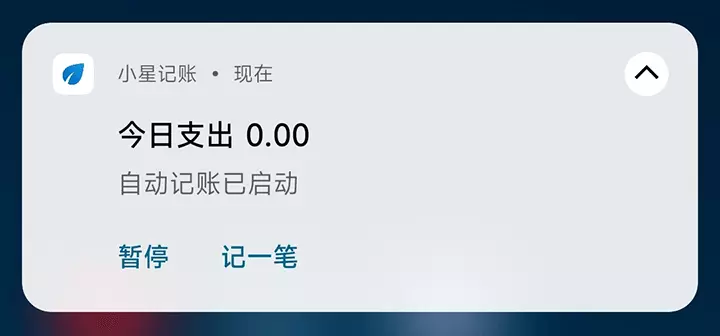
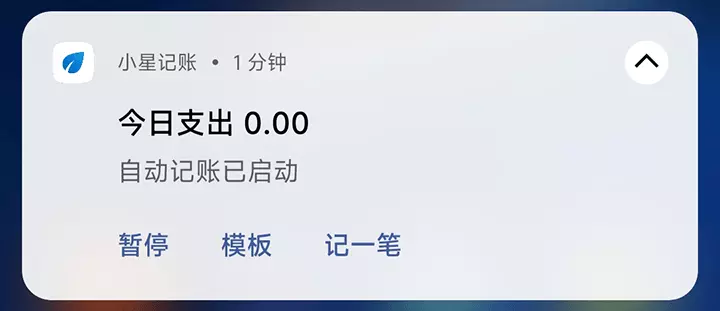
no message

diff --git a/doc/auto.html b/doc/auto.html
@@ -593,11 +593,11 @@ header, .context-menu, .megamenu-content, footer{
 </style><title>自动记账使用手册</title>
 </head>
 <body class='typora-export os-windows'><div class='typora-export-content'>
-<div id='write'  class=''><h3 id='1-概述'><span>1 概述</span></h3><p><span>欢迎使用小星记账提供的自动记账服务。自动记账实现了在 </span><strong><span>支付宝、微信、云闪付、美团、京东、抖音</span></strong><span> 等应用支付成功后，或进入账单详情页时，自动识别界面上的账单信息，方便您一键记账，省去手动录入的麻烦和遗忘记账的烦恼~ </span></p><p><span>请您在使用前完整地阅读本文档，了解具体的使用方法和常见问题，帮助您快速上手。</span></p><p>&nbsp;</p><p><span>目前支持的场景如下：</span></p><p><strong><span>【支付宝】</span></strong></p><p><strong><span>扫码支付、付款码支付、转账、提现、红包、账单详情、余额明细、余额宝明细、余利宝明细</span></strong></p><p><span>账单详情入口：我的-账单-点击某一账单</span></p><p><span>余额明细入口：我的-余额-右上角”…“-余额变动明细-点击某一明细</span></p><p><span>余额宝明细入口：我的-余额宝-右上角”…“-资金明细-点击某一明细</span></p><p><span>余利宝明细入口：我的-余利宝-账单-点击某一明细</span></p><p><span>温馨提示：天猫、淘宝、闲鱼、饿了么、公交扫码、高德打车等阿里系产品在支付成功后，如果没有弹出记账面板（比如是免密支付或没有支付宝的支付成功界面），可以点击系统通知栏内的【支付宝交易提醒通知】进行识别；或主动打开支付宝账单详情进行识别。</span></p><p>&nbsp;</p><p><strong><span>【微信】</span></strong></p><p><strong><span>扫码支付、付款码支付、转账、提现、红包、账单详情、零钱明细、零钱通明细、商家收款详情</span></strong></p><p><span>账单详情入口：我-服务-钱包-右上角账单按钮-点击某一账单</span></p><p><span>零钱明细入口：我-服务-钱包-零钱-零钱明细-点击某一明细</span></p><p><span>零钱通明细入口：微信-我-服务-钱包-零钱通-右上角”…“-零钱通明细-点击某一明细</span></p><p><span>温馨提示1：微信红包/群收款由于支付后是直接回到聊天窗口，没有支付成功界面，因此需要您主动点开红包/群收款进行识别；</span></p><p><span>温馨提示2：微信二维码收款不支持直接识别，可以在微信账单中打开对应的「账单详情」进行识别。</span></p><p>&nbsp;</p><p><strong><span>【云闪付】</span></strong></p><p><strong><span>扫码支付、付款码支付、账单详情、交易详情</span></strong></p><p><span>账单详情入口：我的-账单-点击某一账单</span></p><p><span>交易详情入口：1. 消息-支付助手-查看；2. 首页-卡管理-点击具体银行卡-交易记录-点击某一记录-点击「更多」</span></p><p><span>温馨提示：当银行卡金额发生变动后，一般云闪付都会发出【动账提醒】通知，点进通知即可完成识别。</span></p><p>&nbsp;</p><p><strong><span>【美团、美团外卖】</span></strong></p><p><strong><span>美团支付、账单详情、余额明细</span></strong></p><p><span>账单详情入口：我的-我的钱包（进入钱包）-我的账单-点击某一账单</span></p><p><span>余额明细入口：我的-我的钱包-点击余额-余额明细-点击某一明细</span></p><p>&nbsp;</p><p><strong><span>【京东、京东金融】</span></strong></p><p><strong><span>京东支付、账单详情</span></strong></p><p><span>京东账单入口：我的-我的钱包-右上角账单图标-点击某一账单</span></p><p><span>京东金融账单入口：我的-我的账单-点击某一账单</span></p><p>&nbsp;</p><p><strong><span>【抖音、抖音极速版、抖音火山版】</span></strong></p><p><strong><span>抖音商城支付、账单详情</span></strong></p><p><span>账单详情入口：我-右上角菜单按钮-我的钱包-账单-点击某一账单</span></p><p>&nbsp;</p><p><strong><span>【银行短信】</span></strong></p><p><span>收到短信自动识别+手动添加短信内容进行识别；具体使用方式请查看下方 </span><strong><span>2.5 使用短信识别</span></strong></p><p>&nbsp;</p><p><strong><span>【实现原理&amp;隐私安全】</span></strong></p><p><span>自动记账实现原理：基于Android系统的无障碍服务，在用户主动打开特定应用的特定界面时，自动调用系统接口获取一次界面数据。数据经过本地算法识别整理后，通过悬浮窗展示在用户面前，方便用户一键记账。</span></p><p><span>短信识别实现原理：系统在收到新短信时，会向所有应用发送广播通知，应用可以进行注册监听。当小星注册的监听器接收到新短信时，会自动对短信内容进行一次识别，如果符合识别规则，将会整理数据并通知用户，方便用户一键记账。</span></p><p><span>隐私安全保障：自动记账（含短信）的识别算法均为本地离线算法，获取的数据和对数据的处理仅在当前手机内部完成，数据不会上传网络或做其他形式的存储，可放心使用。</span></p><p>&nbsp;</p><h3 id='2-开始使用'><span>2 开始使用</span></h3><h4 id='21-创建账户'><span>2.1 创建账户</span></h4><p><span>请先在应用内将自己名下的所有账户创建好，比如花呗、银行储蓄卡、信用卡等等，方便自动记账的时候识别与选择。</span></p><p>&nbsp;</p><h4 id='22-开启权限'><span>2.2 开启权限</span></h4><p><span>请根据应用提示正确开启小星记账的悬浮窗权限和无障碍服务开关（无障碍界面-已安装/已下载的服务-小星记账）。</span></p><p><span>温馨提示：无障碍设置里仅需开启无障碍服务开关，无需打开【无障碍快捷方式】</span></p><p><span>如果系统权限中含有 </span><strong><span>是否允许应用【后台弹出界面】</span></strong><span>，请设置开启。</span></p><p><span>如果需要进行短信识别，请主动在系统权限中开启</span><strong><span>读取短信权限</span></strong><span>和</span><strong><span>通知类短信读取权限</span></strong><span>。IQOO和VIVO设备还需要进入信息-右上角圆点-设置-隐私保护-关闭财务信息保护。</span></p><p><span>为了防止退出应用后，无障碍服务被系统自动关闭，请将小星记账（不同机型的操作方式请查看本文档最下方）：</span>
+<div id='write'  class=''><h3 id='1-概述'><span>1 概述</span></h3><p><span>欢迎使用小星记账提供的自动记账服务。自动记账实现了在 </span><strong><span>支付宝、微信、云闪付、美团、京东、抖音、数字人民币</span></strong><span> 等应用支付成功后，或进入账单详情页时，自动识别界面上的账单信息，方便您一键记账，省去手动录入的麻烦和遗忘记账的烦恼~ </span></p><p><span>请您在使用前完整地阅读本文档，了解具体的使用方法和常见问题，帮助您快速上手。</span></p><p>&nbsp;</p><p><span>目前支持的场景如下：</span></p><p><strong><span>【支付宝】</span></strong></p><p><strong><span>扫码支付、付款码支付、转账、提现、红包、账单详情、余额明细、余额宝明细、余利宝明细</span></strong></p><p><span>账单详情入口：我的-账单-点击某一账单</span></p><p><span>余额明细入口：我的-余额-右上角”…“-余额变动明细-点击某一明细</span></p><p><span>余额宝明细入口：我的-余额宝-右上角”…“-资金明细-点击某一明细</span></p><p><span>余利宝明细入口：我的-余利宝-账单-点击某一明细</span></p><p><span>温馨提示：天猫、淘宝、闲鱼、饿了么、公交扫码、高德打车等阿里系产品在支付成功后，如果没有弹出记账面板（比如是免密支付或没有支付宝的支付成功界面），可以点击系统通知栏内的【支付宝交易提醒通知】进行识别；或主动打开支付宝账单详情进行识别。</span></p><p>&nbsp;</p><p><strong><span>【微信】</span></strong></p><p><strong><span>扫码支付、付款码支付、转账、提现、红包、账单详情、零钱明细、零钱通明细、商家收款详情</span></strong></p><p><span>账单详情入口：我-服务-钱包-右上角账单按钮-点击某一账单</span></p><p><span>零钱明细入口：我-服务-钱包-零钱-零钱明细-点击某一明细</span></p><p><span>零钱通明细入口：微信-我-服务-钱包-零钱通-右上角”…“-零钱通明细-点击某一明细</span></p><p><span>温馨提示1：微信红包/群收款由于支付后是直接回到聊天窗口，没有支付成功界面，因此需要您主动点开红包/群收款进行识别；</span></p><p><span>温馨提示2：微信二维码收款不支持直接识别，可以在微信账单中打开对应的「账单详情」进行识别。</span></p><p>&nbsp;</p><p><strong><span>【云闪付】</span></strong></p><p><strong><span>扫码支付、付款码支付、账单详情、交易详情</span></strong></p><p><span>账单详情入口：我的-账单-点击某一账单</span></p><p><span>交易详情入口：1. 消息-支付助手-查看；2. 首页-卡管理-点击具体银行卡-交易记录-点击某一记录-点击「更多」</span></p><p><span>温馨提示：当银行卡金额发生变动后，一般云闪付都会发出【动账提醒】通知，点进通知即可完成识别。</span></p><p>&nbsp;</p><p><strong><span>【美团、美团外卖】</span></strong></p><p><strong><span>美团支付、账单详情、余额明细</span></strong></p><p><span>账单详情入口：我的-我的钱包（进入钱包）-我的账单-点击某一账单</span></p><p><span>余额明细入口：我的-我的钱包-点击余额-余额明细-点击某一明细</span></p><p>&nbsp;</p><p><strong><span>【京东、京东金融】</span></strong></p><p><strong><span>京东支付、账单详情</span></strong></p><p><span>京东账单入口：我的-我的钱包-右上角账单图标-点击某一账单</span></p><p><span>京东金融账单入口：我的-我的账单-点击某一账单</span></p><p>&nbsp;</p><p><strong><span>【抖音、抖音极速版、抖音火山版】</span></strong></p><p><strong><span>抖音商城支付、账单详情</span></strong></p><p><span>账单详情入口：我-右上角菜单按钮-我的钱包-账单-点击某一账单</span></p><p>&nbsp;</p><p><strong><span>【数字人民币】</span></strong></p><p><strong><span>充钱包、存银行、扫码转账、交易详情</span></strong></p><p><span>交易详情入口：首页-点击钱包卡片-交易记录-点击某一记录</span></p><p>&nbsp;</p><p><strong><span>【银行短信】</span></strong></p><p><span>收到短信自动识别+手动添加短信内容进行识别；具体使用方式请查看下方 </span><strong><span>2.5 使用短信识别</span></strong></p><p>&nbsp;</p><p><strong><span>【实现原理&amp;隐私安全】</span></strong></p><p><span>自动记账实现原理：基于Android系统的无障碍服务，在用户主动打开特定应用的特定界面时，自动调用系统接口获取一次界面数据。数据经过本地算法识别整理后，通过悬浮窗展示在用户面前，方便用户一键记账。</span></p><p><span>短信识别实现原理：系统在收到新短信时，会向所有应用发送广播通知，应用可以进行注册监听。当小星注册的监听器接收到新短信时，会自动对短信内容进行一次识别，如果符合识别规则，将会整理数据并通知用户，方便用户一键记账。</span></p><p><span>隐私安全保障：自动记账（含短信）的识别算法均为本地离线算法，获取的数据和对数据的处理仅在当前手机内部完成，数据不会上传网络或做其他形式的存储，可放心使用。</span></p><p>&nbsp;</p><h3 id='2-开始使用'><span>2 开始使用</span></h3><h4 id='21-创建账户'><span>2.1 创建账户</span></h4><p><span>请先在应用内将自己名下的所有账户创建好，比如花呗、银行储蓄卡、信用卡等等，方便自动记账的时候识别与选择。</span></p><p>&nbsp;</p><h4 id='22-开启权限'><span>2.2 开启权限</span></h4><p><span>请根据应用提示正确开启小星记账的悬浮窗权限和无障碍服务开关（无障碍界面-已安装/已下载的服务-小星记账）</span></p><p><span>温馨提示：无障碍设置里仅需开启无障碍服务开关，无需打开【无障碍快捷方式】。Android 13设备在开启无障碍时如果提示「出于安全考虑，暂时无法开启」，请先在系统设置中打开小星记账的应用信息界面，点击右上角圆点-信任此应用，信任后即可开启无障碍服务。</span></p><p><span>如果系统权限中含有 </span><strong><span>是否允许应用【后台弹出界面】</span></strong><span>，请设置开启。</span></p><p><span>如果需要进行短信识别，请主动在系统权限中开启</span><strong><span>读取短信权限</span></strong><span>和</span><strong><span>通知类短信读取权限</span></strong><span>。IQOO和VIVO设备还需要进入【信息】APP（系统短信软件）-右上角圆点-设置-隐私保护-关闭财务信息保护。</span></p><p><span>为了防止退出应用后，无障碍服务被系统自动关闭，请将小星记账（不同机型的操作方式请查看本文档最下方）：</span>
 <span>1.锁定后台；</span>
 <span>2.设置小星记账的省电策略为无限制；</span>
 <span>3.开启小星记账【自启动】开关；</span>
-<span>4.允许小星记账显示通知。</span></p><p>&nbsp;</p><h4 id='23-特别说明'><span>2.3 特别说明</span></h4><p><span>部分机型系统（如小米手机的MIUI）会禁止其他应用在微信、支付宝、云闪付的界面上显示悬浮窗，因此在支付成功后，需要切换到桌面或退出界面才能正常显示记账面板。</span><strong><span>您可以在系统设置中搜索【支付保险箱】，关闭相应开关来取消该限制。</span></strong><span>其他机型若有类似情况也可以在系统设置或系统内置的安全软件中查找下支付保护相关的设置。</span></p><p><span>部分机型系统（如小米手机的MIUI）的输入法提供了【隐私输入】功能，在开启该选项后，输入法将不支持在悬浮窗上输入内容，具体表现为无法在自动记账面板中弹出输入法，无法编辑金额与备注信息。</span><strong><span>您可以在输入法设置中关闭【隐私输入】来解决该问题。</span></strong></p><p>&nbsp;</p><h4 id='24-使用自动记账'><span>2.4 使用自动记账</span></h4><p><span>当服务正常启动时，通知栏上会显示</span><strong><span>【自动记账已启动】</span></strong><span>的通知。您可以任意打开支付宝或微信的某一账单详情页进行测试，看是否能正确显示自动记账面板。</span></p><p><span>当首次识别到界面上的账户数据时，如果没有在您的账户列表中找到合适的匹配项，则需要您手动选择一次，下次再识别到该账户时将会自动为您选择。同样的，当首次识别到界面上的商家和商品数据时，如果没有在您的明细类别中找到合适的匹配项，则需要您手动选择一次，下次再识别到该商家和商品数据时将会自动为您选择。</span></p><p><span>为了给您带来更好的体验，请尽量不要修改小星记账内置的类别名称，比如对于三餐类型，小星记账会根据账单支付时间智能地识别为早餐、午餐、晚餐或夜宵，如果这些类别不存在或被重命名，将无法自动映射。</span></p><p><strong><span>当发现账单类型与实际不符时，可点击面板左上角的类型按钮切换支出、收入、转账、借贷类型。同样的，包括账本，角色，不计入预算，报销等都可以通过点击对应按钮进行调整。如下图：</span></strong></p><p><img src="auto.assets/1.webp" referrerpolicy="no-referrer" alt="1"></p><p>&nbsp;</p><h4 id='25-使用短信识别'><strong><span>2.5 使用短信识别</span></strong></h4><p><span>开启短信识别后，当系统收到新的银行短信时，应用会显示一条</span><strong><span>【识别到新短信】</span></strong><span>的通知，您可以在有空的时候点击通知进行处理。或者在打开应用时，首页也会有相应提示，可以点击提示进入操作界面。</span></p><p><img src="auto.assets/4.webp" referrerpolicy="no-referrer" alt="4"></p><p><span>如果在系统收到新短信时，小星记账没有运行（比如进程已被系统清理），则无法自动识别。遇到这种场景，您可以主动复制短信内容，打开 主页侧边栏 - 自动记账 - 查看识别的短信列表 ，点击【+】输入短信进行识别。</span></p><p><span>如果在系统收到新短信时，小星记账正在运行，但是没有显示通知提示，则说明当前的短信格式尚未适配。您可以通过手动输入短信的方式进行测试，如果提示“暂不支持此短信格式”，请您选择上传内容，我们会尽快完成适配。</span></p><p><span>如果有部分银行的短信不需要自动识别，您可以通过界面上的【短信过滤】进行配置。</span></p><p>&nbsp;</p><h4 id='26-常驻通知使用小技巧'><strong><span>2.6 常驻通知使用小技巧</span></strong></h4><p><span>自动记账服务开启后，通知栏上会显示一个常驻通知：用于标识服务当前的运行状态，同时也可以降低服务被系统关闭的概率。</span></p><p><span>您可以通过修改自动记账界面中的【常驻通知样式】，根据使用习惯调整为【原生样式】或【经典样式】</span></p><p><strong><span>经典样式</span></strong><span>：</span></p><p><img src="auto.assets/2.webp" referrerpolicy="no-referrer" alt="2"></p><ul><li><span>点击通知的上的应用图标，可以直接打开小星记账；</span></li><li><span>点击中间的文字，可以暂停或恢复自动记账，部分时候不需要自动记账，可以使用该功能；</span></li><li><span>点击【记一笔】可以快速进入手动记账界面。</span></li></ul><p><strong><span>原生样式</span></strong><span>：</span></p><p><img src="auto.assets/3.webp" referrerpolicy="no-referrer" alt="3"></p><ul><li><span>点击通知栏，可以直接打开小星记账；</span></li><li><span>点击展开按钮，可以显示【暂停】【记一笔】操作入口。部分系统没有展开按钮，则是通过长按通知来显示；</span></li><li><span>点击【暂停、启动】，可以暂停或恢复自动记账，部分时候不需要自动记账，可以使用该功能；</span></li><li><span>点击【记一笔】可以快速进入手动记账界面。</span></li></ul><p><strong><span>其他说明</span></strong><span>：</span></p><ul><li><p><span>如果不需要显示常驻通知，可以直接在系统通知管理里关闭【自动记账】的通知显示开关；</span></p></li><li><p><span>对于 Android 12 系统，经典样式如果出现显示不完整的问题，请改为使用原生样式。</span></p><p>&nbsp;</p></li></ul><h3 id='3-常见问题'><span>3 常见问题</span></h3><p><strong><span>已经按文档把所有权限都开启了，但依旧无法自动记账如何处理？</span></strong></p><p><span>开启权限不代表服务正在运行哦，请您先确认通知栏内是否有【自动记账已启动】的通知，如果没有则说明服务目前没有启动，请您在系统设置中搜索【无障碍】，重新开启【小星记账-自动记账】的无障碍服务开关（请多试几次，直到显示通知为止），如果尝试多次依旧无效，请重启手机。</span></p><p>&nbsp;</p><p><strong><span>开启无障碍服务后，系统界面上提示“无法运行/此服务出现故障”</span></strong></p><p><span>请重新关闭再开启，可以多试几次直到正常启动。如尝试多次依旧无法解决，请关闭无障碍开关并重启手机。</span></p><p>&nbsp;</p><p><strong><span>挂在后台时无法识别，需要先打开小星记账再切回支付软件才能识别弹窗？</span></strong></p><p><span>如果遇到这种情况，可以重新关闭再开启下系统的无障碍服务。建议您也可以检查下系统权限设置中是否有【允许后台活动】与【允许后台弹出界面】相关的设置，如果有请将其开启。</span></p><p>&nbsp;</p><p><strong><span>通知栏内已有【自动记账已启动】的通知，但在支付宝付款成功后偶尔还是不会弹出记账面板？</span></strong></p><p><span>部分机型确实存在该问题，原因是在进入界面后系统发出的无障碍数据不完整，需要界面状态发生下变化才会重新发出完整数据。因此您可以尝试滑动下界面，或者可以先切换至系统桌面再切回支付界面看看能否弹窗。</span></p><p>&nbsp;</p><p><strong><span>支付宝账单识别时提示金额错误，需要手动输入？</span></strong></p><p><span>这是支付宝账单最近的BUG：对于金额超过1000元的账单，给到应用的无障碍数据是异常的，导致无法正确识别金额信息，请您手动输入一下。如果点击金额后无法弹出输入法，请关闭输入法设置中的【隐私输入模式】。</span></p><p>&nbsp;</p><p><strong><span>自动记账弹窗中无法显示输入法，无法编辑金额与备注</span></strong></p><p><span>请关闭输入法设置中的【隐私输入模式】。在开启该模式后，输入法将不支持在悬浮窗上输入。</span></p><p>&nbsp;</p><p><strong><span>在微信、支付宝、云闪付等App里不会弹出记账面板，要切换到桌面才会显示</span></strong></p><p><span>部分系统存在支付保护模块：在支付场景下会禁止其他应用显示悬浮窗。小米手机可以在系统设置中搜索【支付保险箱】，关闭相应应用的开关来取消该限制。其他机型也可以查找下系统设置中是否存在【支付保护】相关的设置。</span></p><p>&nbsp;</p><p><strong><span>在支付后不会直接弹出记账面板，需要到账单详情界面才会弹出</span></strong></p><p><span>部分系统存在支付保护模块：在支付场景下会禁止其他应用显示悬浮窗。小米手机可以在系统设置中搜索【支付保险箱】，关闭相应应用的开关来取消该限制。其他机型也可以查找下系统设置中是否存在【支付保护】相关的设置。</span></p><p>&nbsp;</p><p><strong><span>小米手机升级MIUI 13后，屏幕边缘会出现小星记账的应用图标卡片，如何关闭</span></strong></p><p><span>在无障碍设置里，将【小星记账-自动记账快捷方式】关闭即可。其他机型遇到类似问题也可以检查下无障碍设置，只需开启小星记账的无障碍服务，无需开启【无障碍快捷方式】开关。</span></p><p>&nbsp;</p><p><strong><span>小米手机使用短信识别，在接收到短信时会导致系统卡顿</span></strong></p><p><span>这是MIUI最近版本的BUG。请在权限管理里将小星记账的【读取短信与彩信】和【通知类短信】设置为【始终允许】或【拒绝】，不要设置为【询问】。</span></p><p>&nbsp;</p><p><strong><span>IQOO/VIVO无法自动识别短信</span></strong></p><p><span>请进入信息-右上角圆点-设置-隐私保护-关闭财务信息保护；同时参考本文档最下方的保活设置。</span></p><p>&nbsp;</p><p><strong><span>云闪付【卡管理】，打开银行卡交易记录里的交易详情界面，不会立刻弹出记账面板</span></strong></p><p><span>部分机型在打开这个界面后，需要主动滑动一下界面，或点击一下界面上的【更多】按钮才会触发识别操作。</span></p><p>&nbsp;</p><p><strong><span>是否支持识别银行类的App</span></strong></p><p><span>不支持。您可以通过云闪付或银行短信来兼容一下。对于常用的场景也可以添加至【模板记账】来快捷添加。</span></p><p>&nbsp;</p><p><strong><span>系统语言为英文或繁体，无法自动记账</span></strong></p><p><span>自动记账仅支持【简体中文】环境。</span></p><p>&nbsp;</p><p><strong><span>拼多多无法自动记账</span></strong></p><p><span>拼多多从最近版本开始使用自研的浏览器内核来显示账单页面，该内核目前不支持无障碍服务，无法使用自动记账，需等待拼多多客户端后续兼容无障碍功能后才能继续使用。您可以尝试安装5.x或更早期版本的拼多多，或者先使用模板记账代替一下哦~</span></p><p>&nbsp;</p><p><strong><span>每次打开小星记账都要重新开启无障碍服务，如何处理</span></strong></p><p><span>启动应用时，如果检测到无障碍服务是关闭状态，将会自动跳转至系统无障碍设置页。您可以通过关闭自动记账界面上的 【启动应用时检查服务状态】来跳过这个检测。请参考本文档最下方的操作说明，务必要将小星记账锁定后台，设置小星记账“自启动”，否则一旦退出应用，系统将会关闭无障碍服务。</span></p><p>&nbsp;</p><p><strong><span>为什么会突然无法自动记账</span></strong></p><p><span>一般是由于系统强行关闭了无障碍服务导致。在遇到无法识别时，请先确认自动记账服务是否正常在运行，即通知栏内有【自动记账已启动】的通知。如果没有，可以重新开启无障碍服务，或重启手机解决。请参考本文档最下方的操作说明，务必要将小星记账锁定后台，设置小星记账“自启动”，否则一旦退出应用，系统将会关闭无障碍服务。</span></p><p>&nbsp;</p><p><strong><span>实际上不同的账单，识别时却显示“该账单已添加”</span></strong></p><p><span>如果数据库内存在一笔金额一致，且时间相近的明细，可能会出现该提示。1.6.9版本开始，可以点击弹窗中的【再次识别】进行记录。</span></p><p>&nbsp;</p><p><strong><span>实际上已经保存过的账单，再次打开时却没有提示“该账单已添加”</span></strong></p><p><span>判断是否已经添加过该账单至少需要金额和时间两个数据，即判断数据库中是否存在一笔金额一致且时间相近的明细。而类似于支付成功界面、红包界面等，由于界面上只有一个金额信息，没有时间信息，因此保存后再次打开，无法明确判断是否已经添加过该账单。如果想要获得明确判断，请在账单详情页面进行识别。</span></p><p>&nbsp;</p><p><strong><span>开启了隐藏后台，没有效果</span></strong></p><p><span>后台纯净模式需要在您退出应用后才会生效，即在首页按系统【返回键】或【返回手势（屏幕右侧边缘往左滑）】退出应用。退出应用不会影响自动记账服务的正常使用（需将小星记账锁定后台并开启“自启动”）</span></p><p>&nbsp;</p><p><strong><span>自动识别到的数据有误</span></strong></p><p><span>如果您在使用中发现自动识别到的数据（比如金额，日期，备注等）与实际账单不符，或者无法识别，请随时通过酷安、微信客服或邮箱反馈给我们，我们会第一时间处理和修复~</span></p><p>&nbsp;</p><p><strong><span>自动记账服务一直开着，是否会影响性能，或者增加耗电？</span></strong></p><p><span>不会的，自动记账服务仅在特定应用的支付成功界面或账单详情界面才会被唤醒，其余时刻均处于休眠状态，不会对系统性能造成任何影响。而由于仅在特定界面才会执行，对耗电量的影响几乎微乎其微，经过测试，和正常使用没有区别，可放心开启。如果您的系统在开启无障碍服务后会出现耗电问题，可以添加无障碍快捷方式，在需要自动记账的时候再通过快捷方式开启服务，使用完后可以关闭。</span></p><p>&nbsp;</p><p><strong><span>自动记账无法正常使用如何处理</span></strong></p><p><span>可以在系统设置中搜索【无障碍】，重新开启小星记账的无障碍服务，多试几次。如果依旧无法恢复，一般是系统服务出现问题，可以</span><strong><span>重启手机</span></strong><span>解决。平常无需自动记账的时候，建议可以点击通知栏内的暂停自动记账，减少服务被关闭的概率。</span></p><p><span>自动记账是本地服务，不会受网络因素影响，也不会自行关闭，只有可能是被系统被迫终止。所以我们只能尽可能地避免系统关闭它：</span><strong><span>为了保证服务不被系统误杀，请将小星记账锁定后台，允许小星记账显示通知，开启小星记账自启动，并将小星记账的省电策略修改为无限制。（部分系统没有省电策略的功能，也可以在应用设置里允许小星记账后台活动）</span></strong></p><p>&nbsp;</p><p><strong><span>各机型请通过对应的操作来提升无障碍服务的稳定性：</span></strong></p><p><strong><span>小米：</span></strong></p><p><span>1.开启通知栏权限：通知栏上能显示“自动记账已启动”的通知；</span></p><p><span>2.锁定后台：近期任务界面（全面屏：从屏幕底部上滑；物理三键：点击菜单按钮）- 长按小星记账 - 点击加锁按钮；</span></p><p><span>3.修改省电策略：最近任务列表，长按小星记账，点击设置按钮，进入应用信息界面：点击省电策略，修改为无限制；</span></p><p><span>4.开启自启动：开关同在应用信息界面；</span></p><p><span>5.允许后台弹出界面：应用信息界面 - 权限管理 - 后台弹出界面 - 设置为始终允许。</span></p><p>&nbsp;</p><p><strong><span>华为：</span></strong>
+<span>4.允许小星记账显示通知。</span></p><p>&nbsp;</p><h4 id='23-特别说明'><span>2.3 特别说明</span></h4><p><span>部分机型系统（如小米手机的MIUI）会禁止其他应用在微信、支付宝、云闪付的界面上显示悬浮窗，因此在支付成功后，需要切换到桌面或退出界面才能正常显示记账面板。</span><strong><span>您可以在系统设置中搜索【支付保险箱】，关闭相应开关来取消该限制。</span></strong><span>其他机型若有类似情况也可以在系统设置或系统内置的安全软件中查找下支付保护相关的设置。</span></p><p><span>部分机型系统（如小米手机的MIUI）的输入法提供了【隐私输入】功能，在开启该选项后，输入法将不支持在悬浮窗上输入内容，具体表现为无法在自动记账面板中弹出输入法，无法编辑金额与备注信息。</span><strong><span>您可以在输入法设置中关闭【隐私输入】来解决该问题。</span></strong></p><p><span>MIUI部分系统版本存在BUG：在开启短信识别功能后，系统在处理新短信时会出现卡顿现象。</span><strong><span>请在小星记账的权限管理中将【读取短信权限】和【通知类短信】设置为【始终允许】或【拒绝】，不要设置为【询问】</span></strong><span>即可解决。</span></p><p><span>IQOO和VIVO设备如需使用短信识别，需要进入【信息】APP（系统短信软件），点击</span><strong><span>右上角圆点-设置-隐私保护-关闭财务信息保护</span></strong><span>。</span></p><p>&nbsp;</p><h4 id='24-使用自动记账'><span>2.4 使用自动记账</span></h4><p><span>当服务正常启动时，通知栏上会显示</span><strong><span>【自动记账已启动】</span></strong><span>的通知。您可以任意打开支付宝或微信的某一账单详情页进行测试，看是否能正确显示自动记账面板。</span></p><p><span>当首次识别到界面上的账户数据时，如果没有在您的账户列表中找到合适的匹配项，则需要您手动选择一次，下次再识别到该账户时将会自动为您选择。同样的，当首次识别到界面上的商家和商品数据时，如果没有在您的明细类别中找到合适的匹配项，则需要您手动选择一次，下次再识别到该商家和商品数据时将会自动为您选择。</span></p><p><span>为了给您带来更好的体验，请尽量不要修改小星记账内置的类别名称，比如对于三餐类型，小星记账会根据账单支付时间智能地识别为早餐、午餐、晚餐或夜宵，如果这些类别不存在或被重命名，将无法自动映射。</span></p><p><strong><span>当发现账单类型与实际不符时，可点击面板左上角的类型按钮切换支出、收入、转账、借贷类型。同样的，包括账本，角色，不计入预算，报销等都可以通过点击对应按钮进行调整。如下图：</span></strong></p><p><img src="auto.assets/1.webp" referrerpolicy="no-referrer" alt="1"></p><p>&nbsp;</p><h4 id='25-使用短信识别'><strong><span>2.5 使用短信识别</span></strong></h4><p><span>开启短信识别后，当系统收到新的银行短信时，应用会显示一条</span><strong><span>【识别到新短信】</span></strong><span>的通知，您可以在有空的时候点击通知进行处理。或者在打开应用时，首页也会有相应提示，可以点击提示进入操作界面。</span></p><p><img src="auto.assets/4.webp" referrerpolicy="no-referrer" alt="4"></p><p><span>如果在系统收到新短信时，小星记账没有运行（比如进程已被系统清理），则无法自动识别。遇到这种场景，您可以主动复制短信内容，打开 主页侧边栏 - 自动记账 - 查看识别的短信列表 ，点击【+】输入短信进行识别。</span></p><p><span>如果在系统收到新短信时，小星记账正在运行，但是没有显示通知提示，则说明当前的短信格式尚未适配。您可以通过手动输入短信的方式进行测试，如果提示“暂不支持此短信格式”，请您选择上传内容，我们会尽快完成适配。</span></p><p><span>如果有部分银行的短信不需要自动识别，您可以通过界面上的【短信过滤】进行配置。</span></p><p>&nbsp;</p><h4 id='26-常驻通知使用小技巧'><strong><span>2.6 常驻通知使用小技巧</span></strong></h4><p><span>自动记账服务开启后，通知栏上会显示一个常驻通知：用于标识服务当前的运行状态，同时也可以降低服务被系统关闭的概率。</span></p><p><span>您可以通过修改自动记账界面中的【常驻通知样式】，根据使用习惯调整为【原生样式】或【经典样式】</span></p><p><strong><span>经典样式</span></strong><span>：</span></p><p><img src="auto.assets/2.webp" referrerpolicy="no-referrer" alt="2"></p><ul><li><span>点击通知的上的应用图标，可以直接打开小星记账；</span></li><li><span>点击中间的文字，可以暂停或恢复自动记账，部分时候不需要自动记账，可以使用该功能；</span></li><li><span>点击右侧的按钮可以快速进入模板记账和手动记账界面。</span></li></ul><p><strong><span>原生样式</span></strong><span>：</span></p><p><img src="auto.assets/3.webp" referrerpolicy="no-referrer" alt="3"></p><ul><li><span>点击通知栏，可以直接打开小星记账；</span></li><li><span>点击展开按钮，可以显示【暂停】【模板】【记一笔】操作入口。部分系统没有展开按钮，可通过长按通知来显示；</span></li><li><span>点击【暂停、启动】，可以暂停或恢复自动记账，部分时候不需要自动记账，可以使用该功能；</span></li><li><span>点击【模板】【记一笔】可以快速进入模板记账和手动记账界面。</span></li></ul><p><strong><span>其他说明</span></strong><span>：</span></p><ul><li><p><span>如果不需要显示常驻通知，可以直接在系统通知管理里关闭【自动记账】类型的显示开关；</span></p></li><li><p><span>如果您的系统在使用经典样式时会出现显示不全的情况，请改用原生样式。</span></p><p>&nbsp;</p></li></ul><h3 id='3-常见问题'><span>3 常见问题</span></h3><p><strong><span>已经按文档把所有权限都开启了，但依旧无法自动记账如何处理？</span></strong></p><p><span>开启权限不代表服务正在运行哦，请您先确认通知栏内是否有【自动记账已启动】的通知，如果没有则说明服务目前没有启动，请您在系统设置中搜索【无障碍】，重新开启【小星记账-自动记账】的无障碍服务开关（请多试几次，直到显示通知为止），如果尝试多次依旧无效，请重启手机。</span></p><p>&nbsp;</p><p><strong><span>开启无障碍服务后，系统界面上提示“无法运行/此服务出现故障”</span></strong></p><p><span>请重新关闭再开启，可以多试几次直到正常启动。如尝试多次依旧无法解决，请关闭无障碍开关并重启手机。</span></p><p>&nbsp;</p><p><strong><span>挂在后台时无法识别，需要先打开小星记账再切回支付软件才能识别弹窗？</span></strong></p><p><span>如果遇到这种情况，可以重新关闭再开启下系统的无障碍服务。建议您也可以检查下系统权限设置中是否有【允许后台活动】与【允许后台弹出界面】相关的设置，如果有请将其开启。</span></p><p>&nbsp;</p><p><strong><span>通知栏内已有【自动记账已启动】的通知，但在支付宝付款成功后偶尔还是不会弹出记账面板？</span></strong></p><p><span>部分机型确实存在该问题，原因是在进入界面后系统发出的无障碍数据不完整，需要界面状态发生下变化才会重新发出完整数据。因此您可以尝试滑动下界面，或者可以先切换至系统桌面再切回支付界面看看能否弹窗。</span></p><p>&nbsp;</p><p><strong><span>支付宝账单识别时提示金额错误，需要手动输入？</span></strong></p><p><span>这是支付宝账单最近的BUG：对于金额超过1000元的账单，给到应用的无障碍数据是异常的，导致无法正确识别金额信息，请您手动输入一下。如果点击金额后无法弹出输入法，请关闭输入法设置中的【隐私输入模式】。</span></p><p>&nbsp;</p><p><strong><span>自动记账弹窗中无法显示输入法，无法编辑金额与备注</span></strong></p><p><span>请关闭输入法设置中的【隐私输入模式】。在开启该模式后，输入法将不支持在悬浮窗上输入。</span></p><p>&nbsp;</p><p><strong><span>在微信、支付宝、云闪付等App里不会弹出记账面板，要切换到桌面才会显示</span></strong></p><p><span>部分系统存在支付保护模块：在支付场景下会禁止其他应用显示悬浮窗。小米手机可以在系统设置中搜索【支付保险箱】，关闭相应应用的开关来取消该限制。其他机型也可以查找下系统设置中是否存在【支付保护】相关的设置。</span></p><p>&nbsp;</p><p><strong><span>在支付后不会直接弹出记账面板，需要到账单详情界面才会弹出</span></strong></p><p><span>部分系统存在支付保护模块：在支付场景下会禁止其他应用显示悬浮窗。小米手机可以在系统设置中搜索【支付保险箱】，关闭相应应用的开关来取消该限制。其他机型也可以查找下系统设置中是否存在【支付保护】相关的设置。</span></p><p>&nbsp;</p><p><strong><span>小米手机升级MIUI 13后，屏幕边缘会出现小星记账的应用图标卡片，如何关闭</span></strong></p><p><span>在无障碍设置里，将【小星记账-自动记账快捷方式】关闭即可。其他机型遇到类似问题也可以检查下无障碍设置，只需开启小星记账的无障碍服务，无需开启【无障碍快捷方式】开关。</span></p><p>&nbsp;</p><p><strong><span>小米手机使用短信识别，在接收到短信时会导致系统卡顿</span></strong></p><p><span>这是MIUI最近版本的BUG。请在权限管理里将小星记账的【读取短信与彩信】和【通知类短信】设置为【始终允许】或【拒绝】，不要设置为【询问】。</span></p><p>&nbsp;</p><p><strong><span>IQOO/VIVO无法自动识别短信</span></strong></p><p><span>请进入信息-右上角圆点-设置-隐私保护-关闭财务信息保护；同时参考本文档最下方的保活设置。</span></p><p>&nbsp;</p><p><strong><span>云闪付【卡管理】，打开银行卡交易记录里的交易详情界面，不会立刻弹出记账面板</span></strong></p><p><span>部分机型在打开这个界面后，需要主动滑动一下界面，或点击一下界面上的【更多】按钮才会触发识别操作。</span></p><p>&nbsp;</p><p><strong><span>是否支持识别银行类的App</span></strong></p><p><span>不支持。您可以通过云闪付或银行短信来兼容一下。对于常用的场景也可以添加至【模板记账】来快捷添加。</span></p><p>&nbsp;</p><p><strong><span>系统语言为英文或繁体，无法自动记账</span></strong></p><p><span>自动记账仅支持【简体中文】环境。</span></p><p>&nbsp;</p><p><strong><span>拼多多无法自动记账</span></strong></p><p><span>拼多多从最近版本开始使用自研的浏览器内核来显示账单页面，该内核目前不支持无障碍服务，无法使用自动记账，需等待拼多多客户端后续兼容无障碍功能后才能继续使用。您可以尝试安装5.x或更早期版本的拼多多，或者先使用模板记账代替一下哦~</span></p><p>&nbsp;</p><p><strong><span>每次打开小星记账都要重新开启无障碍服务，如何处理</span></strong></p><p><span>启动应用时，如果检测到无障碍服务是关闭状态，将会自动跳转至系统无障碍设置页。您可以通过关闭自动记账界面上的 【启动应用时检查服务状态】来跳过这个检测。请参考本文档最下方的操作说明，务必要将小星记账锁定后台，设置小星记账“自启动”，否则一旦退出应用，系统将会关闭无障碍服务。</span></p><p>&nbsp;</p><p><strong><span>为什么会突然无法自动记账</span></strong></p><p><span>一般是由于系统强行关闭了无障碍服务导致。在遇到无法识别时，请先确认自动记账服务是否正常在运行，即通知栏内有【自动记账已启动】的通知。如果没有，可以重新开启无障碍服务，或重启手机解决。请参考本文档最下方的操作说明，务必要将小星记账锁定后台，设置小星记账“自启动”，否则一旦退出应用，系统将会关闭无障碍服务。</span></p><p>&nbsp;</p><p><strong><span>实际上不同的账单，识别时却显示“该账单已添加”</span></strong></p><p><span>如果数据库内存在一笔金额一致，且时间相近的明细，可能会出现该提示。1.6.9版本开始，可以点击弹窗中的【再次识别】进行记录。</span></p><p>&nbsp;</p><p><strong><span>实际上已经保存过的账单，再次打开时却没有提示“该账单已添加”</span></strong></p><p><span>判断是否已经添加过该账单至少需要金额和时间两个数据，即判断数据库中是否存在一笔金额一致且时间相近的明细。而类似于支付成功界面、红包界面等，由于界面上只有一个金额信息，没有时间信息，因此保存后再次打开，无法明确判断是否已经添加过该账单。如果想要获得明确判断，请在账单详情页面进行识别。</span></p><p>&nbsp;</p><p><strong><span>开启了隐藏后台，没有效果</span></strong></p><p><span>后台纯净模式需要在您退出应用后才会生效，即在首页按系统【返回键】或【返回手势（屏幕右侧边缘往左滑）】退出应用。退出应用不会影响自动记账服务的正常使用（需将小星记账锁定后台并开启“自启动”）</span></p><p>&nbsp;</p><p><strong><span>自动识别到的数据有误</span></strong></p><p><span>如果您在使用中发现自动识别到的数据（比如金额，日期，备注等）与实际账单不符，或者无法识别，请随时通过酷安、微信客服或邮箱反馈给我们，我们会第一时间处理和修复~</span></p><p>&nbsp;</p><p><strong><span>自动记账服务一直开着，是否会影响性能，或者增加耗电？</span></strong></p><p><span>不会的，自动记账服务仅在特定应用的支付成功界面或账单详情界面才会被唤醒，其余时刻均处于休眠状态，不会对系统性能造成任何影响。而由于仅在特定界面才会执行，对耗电量的影响几乎微乎其微，经过测试，和正常使用没有区别，可放心开启。如果您的系统在开启无障碍服务后会出现耗电问题，可以添加无障碍快捷方式，在需要自动记账的时候再通过快捷方式开启服务，使用完后可以关闭。</span></p><p>&nbsp;</p><p><strong><span>自动记账无法正常使用如何处理</span></strong></p><p><span>可以在系统设置中搜索【无障碍】，重新开启小星记账的无障碍服务，多试几次。如果依旧无法恢复，一般是系统服务出现问题，可以</span><strong><span>重启手机</span></strong><span>解决。平常无需自动记账的时候，建议可以点击通知栏内的暂停自动记账，减少服务被关闭的概率。</span></p><p><span>自动记账是本地服务，不会受网络因素影响，也不会自行关闭，只有可能是被系统被迫终止。所以我们只能尽可能地避免系统关闭它：</span><strong><span>为了保证服务不被系统误杀，请将小星记账锁定后台，允许小星记账显示通知，开启小星记账自启动，并将小星记账的省电策略修改为无限制。（部分系统没有省电策略的功能，也可以在应用设置里允许小星记账后台活动）</span></strong></p><p>&nbsp;</p><p><strong><span>各机型请通过对应的操作来提升无障碍服务的稳定性：</span></strong></p><p><strong><span>小米：</span></strong></p><p><span>1.开启通知栏权限：通知栏上能显示“自动记账已启动”的通知；</span></p><p><span>2.锁定后台：近期任务界面（全面屏：从屏幕底部上滑；物理三键：点击菜单按钮）- 长按小星记账 - 点击加锁按钮；</span></p><p><span>3.修改省电策略：最近任务列表，长按小星记账，点击设置按钮，进入应用信息界面：点击省电策略，修改为无限制；</span></p><p><span>4.开启自启动：开关同在应用信息界面；</span></p><p><span>5.允许后台弹出界面：应用信息界面 - 权限管理 - 后台弹出界面 - 设置为始终允许。</span></p><p>&nbsp;</p><p><strong><span>华为：</span></strong>
 <span>1.开启通知栏权限：通知栏上能显示“自动记账已启动”的通知；</span></p><p><span>2.锁定后台：近期任务界面（全面屏：从屏幕底部上滑；物理三键：点击菜单按钮）- 下拉小星记账；</span></p><p><span>3.关闭省电模式；</span></p><p><span>4.开启小星记账自启动：系统设置-应用-应用启动管理-小星记账-关闭自动管理，开启手动管理，将“允许自启动”“允许关联启动”和“允许后台活动”3个开关都打开。</span></p><p>&nbsp;</p><p><strong><span>iQOO、VIVO：</span></strong>
 <span>1.开启通知栏权限：通知栏上能显示“自动记账已启动”的通知；</span></p><p><span>2.锁定后台：近期任务界面（全面屏：从屏幕底部上滑；物理三键：点击菜单按钮）- 下拉小星记账；</span></p><p><span>3.小星记账系统设置里开启自启动和允许后台弹出界面；</span></p><p><span>4.系统的省电模式-后台耗电管理里，修改小星记账的策略为允许后台高耗电；</span></p><p><span>5.添加桌面组件进行保活：桌面添加小星记账任意组件，然后在桌面设置中开启“桌面组件关联启动主应用”。</span></p><p>&nbsp;</p><p><strong><span>OPPO：</span></strong></p><p><span>1.开启通知栏权限：通知栏上能显示“自动记账已启动”的通知；</span></p><p><span>2.锁定后台：近期任务界面（全面屏：从屏幕底部上滑；物理三键：点击菜单按钮）- 点击右上角的菜单按钮 - 点击锁定；</span></p><p><span>3.桌面长按应用图标，点击应用信息，在设置内开启“允许自动启动”；</span></p><p><span>4.系统设置中，点击电池 - 自定义耗电保护 - 允许后台运行；返回 - 应用速冻 - 关闭小星记账的自动速冻。</span></p><p>&nbsp;</p><p><strong><span>三星：</span></strong></p><p><span>1.开启通知栏权限：通知栏上能显示“自动记账已启动”的通知；</span></p><p><span>2.锁定后台：近期任务界面（全面屏：从屏幕底部上滑；物理三键：点击菜单按钮）- 点击“小星记账”的应用图标 - 在菜单中点击“锁定此应用程序”；</span></p><p><span>3.允许后台活动：最近任务列表，点击“小星记账”的应用图标，在菜单中点击“应用程序信息” - 电池 - 打开“允许后台活动”开关；</span></p><p><span>4.打开系统自带的“智能管理器”软件，点击“自动运行应用程序”- 开启小星记账自启动。</span></p><p>&nbsp;</p><p><strong><span>魅族：</span></strong></p><p><span>1.开启通知栏权限：通知栏上能显示“自动记账已启动”的通知；</span></p><p><span>2.锁定后台：近期任务界面（全面屏：从屏幕底部上滑；物理三键：点击菜单按钮）- 长按小星记账 - 点击锁定按钮；</span></p><p><span>3.打开手机管家 - 隐私和权限 - 后台管理 - 设置小星记账为允许后台运行。</span></p><p>&nbsp;</p><p><strong><span>一加：</span></strong></p><p><span>1.开启通知栏权限：通知栏上能显示“自动记账已启动”的通知；</span></p><p><span>2.锁定后台：近期任务界面（全面屏：从屏幕底部上滑；物理三键：点击菜单按钮）- 长按小星记账 - 点击锁定按钮；</span></p><p><span>3.系统设置中，点击电量优化，将小星记账设置为不优化。</span></p><p>&nbsp;</p><p>&nbsp;</p></div></div>
 </body>

diff --git a/doc/index.html b/doc/index.html
@@ -593,6 +593,6 @@ header, .context-menu, .megamenu-content, footer{
 </style><title>帮助文档</title>
 </head>
 <body class='typora-export os-windows'><div class='typora-export-content'>
-<div id='write'  class=''><p><span>小星知识库正在快马加鞭建设中！您可以先点击下方链接查看相关功能的使用手册与常见问题：</span></p><p><a href='https://cxincx.github.io/xxjz/doc/auto.html'><span>自动记账</span></a></p><p><a href='https://cxincx.github.io/xxjz/doc/backup.html'><span>云端备份与恢复</span></a></p><p><a href='https://cxincx.github.io/xxjz/doc/import.html'><span>账单导入</span></a></p><p><a href='https://cxincx.github.io/xxjz/doc/installment.html'><span>分期付款</span></a></p><p><a href='https://cxincx.github.io/xxjz/doc/pay2.html'><span>激活常见问题</span></a></p><p>&nbsp;</p><p><span>记账过程中，如果您对一些功能的用途不太了解，可以输入一些测试数据进行保存看看效果哦，基本上使用几次就可以掌握啦！</span></p><p><span>遇到其他问题欢迎咨询人工客服~</span></p></div></div>
+<div id='write'  class=''><p><span>小星知识库正在快马加鞭建设中！您可以先点击下方链接查看相关功能的使用手册与常见问题：</span></p><p><a href='auto.html'><span>自动记账</span></a></p><p><a href='backup.html'><span>云端备份与恢复</span></a></p><p><a href='import.html'><span>账单导入</span></a></p><p><a href='installment.html'><span>分期付款</span></a></p><p><a href='pay2.html'><span>激活常见问题</span></a></p><p>&nbsp;</p><p><span>记账过程中，如果您对一些功能的用途不太了解，可以输入一些测试数据进行保存看看效果哦，基本上使用几次就可以掌握啦！</span></p><p><span>遇到其他问题欢迎咨询人工客服~</span></p></div></div>
 </body>
 </html>

diff --git a/doc/tip.html b/doc/tip.html
@@ -1,6 +1,6 @@
 <html xmlns=" http://www.w3.org/1999/xhtml">
 <head>
-<meta HTTP-EQUIV="Content-Type"CONTENT="text/html; charset=gb2312"><meta http-equiv="refresh"content="0;url=https://cxincx.github.io/xxjz/doc/vip_up.html">
+<meta HTTP-EQUIV="Content-Type"CONTENT="text/html; charset=gb2312"><meta http-equiv="refresh"content="0;url=https://cxincx.gitee.io/xxjz/doc/vip_up.html">
 </head>
 <body>
 </body>
